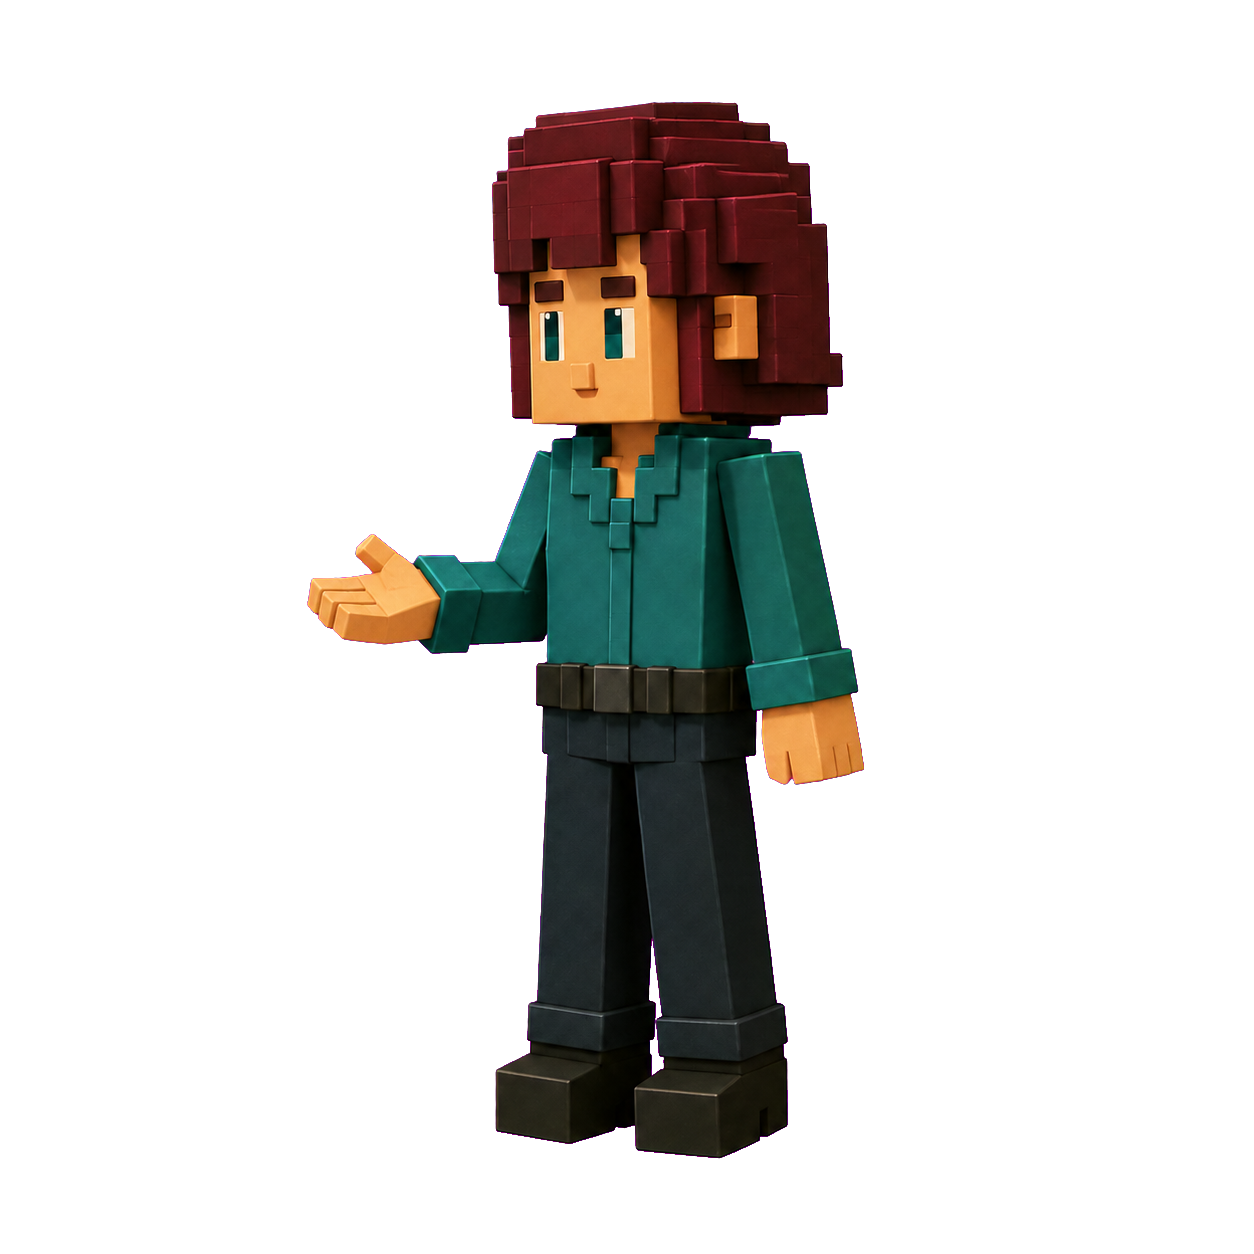
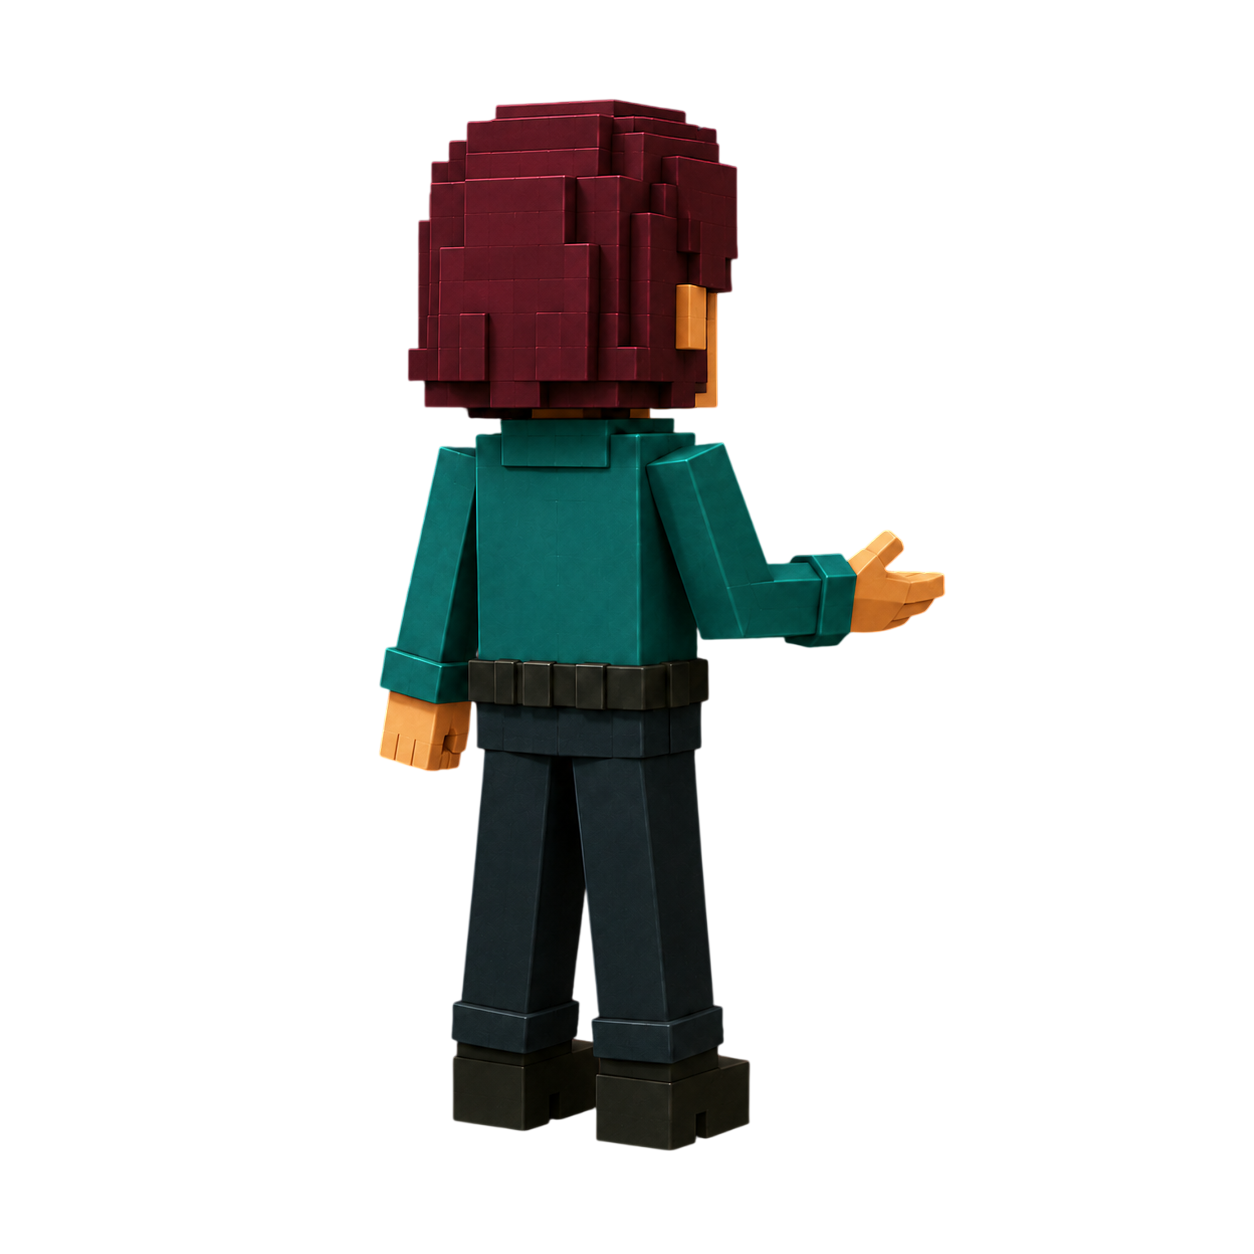
FE-feat : 에이전트 캐릭터 크기 조정 및 목적지 좌표 50군데 고정 완료

Changed region(s): [[0.2488, 0.0622, 0.7464, 0.933]]

diff --git a/frontend/src/pages/AgentStatusPage.tsx b/frontend/src/pages/AgentStatusPage.tsx
@@ -30,64 +30,75 @@ const AGENT_CONFIGS: AgentConfig[] = [
     id: 'agent01',
     name: 'Agent 01',
     spritePath: '/assets/agents/agent01',
+    stateScales: { sitting_meeting: 0.85, sitting_calling: 0.85, sitting_floor_lean: 0.85 },
     initialPosition: { x: 1500, y: 667 },
     destinations: {
-      desk: { x: 470, y: 430 },
-      sofa: { x: 1157, y: 257 },
-      floorLean: { x: 1440, y: 260 },
-      meeting: { x: 904, y: 95 },
-      calling: { x: 1111, y: 658 },
+      desk: { x: 470, y: 395 },
+      sofa: { x: 1185, y: 205 },
+      floorLean: { x: 1545, y: 285 },
+      meeting: { x: 415, y: 130 },
+      calling: { x: 1110, y: 660 },
     },
   },
   {
     id: 'agent02',
     name: 'Agent 02',
     spritePath: '/assets/agents/agent02',
+    stateScales: { sitting_meeting: 0.85, sitting_floor_lean: 0.85, sitting_calling: 0.85 },
     initialPosition: { x: 1560, y: 720 },
     destinations: {
-      desk: { x: 630, y: 440 },
-      sofa: { x: 1200, y: 290 },
-      floorLean: { x: 1390, y: 300 },
-      meeting: { x: 950, y: 130 },
-      calling: { x: 1111, y: 658 },
+      desk: { x: 650, y: 458 },
+      sofa: { x: 1185, y: 205 },
+      floorLean: { x: 1070, y: 285 },
+      meeting: { x: 925, y: 90 },
+      calling: { x: 840, y: 350 },
     },
   },
   {
     id: 'agent03',
     name: 'Agent 03',
     spritePath: '/assets/agents/agent03',
+    scale: 0.85,
     initialPosition: { x: 1450, y: 720 },
     destinations: {
-      desk: { x: 494, y: 450 },
-      sofa: { x: 1110, y: 290 },
-      floorLean: { x: 1390, y: 260 },
-      meeting: { x: 860, y: 130 },
-      calling: { x: 1111, y: 658 },
+      desk: { x: 470, y: 395 },
+      sofa: { x: 1185, y: 205 },
+      floorLean: { x: 1215, y: 370 },
+      meeting: { x: 715, y: 215 },
+      calling: { x: 990, y: 750 },
     },
   },
   {
     id: 'agent04',
     name: 'Agent 04',
     spritePath: '/assets/agents/agent04',
+    scale: 0.87,
+    stateScales: { sitting_desk: 1.1, sitting_floor_lean: 0.85 },
     initialPosition: { x: 1500, y: 770 },
     destinations: {
-      desk: { x: 550, y: 405 },
-      sofa: { x: 1195, y: 220 },
-      floorLean: { x: 1440, y: 310 },
-      meeting: { x: 950, y: 95 },
-      calling: { x: 1111, y: 658 },
+      desk: { x: 465, y: 595 },
+      sofa: { x: 1185, y: 205 },
+      floorLean: { x: 1415, y: 360 },
+      meeting: { x: 920, y: 220 },
+      calling: { x: 1110, y: 655 },
     },
   },
   {
     id: 'agent05',
     name: 'Agent 05',
     spritePath: '/assets/agents/agent05',
+    stateScales: {
+      sitting_desk: 0.92,
+      sitting_meeting: 0.85,
+      sitting_floor_lean: 0.8,
+      sitting_calling: 0.9,
+    },
     initialPosition: { x: 1560, y: 770 },
     destinations: {
-      desk: { x: 550, y: 450 },
-      sofa: { x: 1110, y: 310 },
-      floorLean: { x: 1340, y: 300 },
-      meeting: { x: 860, y: 95 },
+      desk: { x: 825, y: 520 },
+      sofa: { x: 1185, y: 205 },
+      floorLean: { x: 1535, y: 425 },
+      meeting: { x: 415, y: 130 },
       calling: { x: 1334, y: 665 },
     },
   },
@@ -95,12 +106,18 @@ const AGENT_CONFIGS: AgentConfig[] = [
     id: 'agent06',
     name: 'Agent 06',
     spritePath: '/assets/agents/agent06',
+    stateScales: {
+      sitting_floor_lean: 0.85,
+      sitting_meeting: 0.85,
+      sitting_calling: 0.85,
+      sitting_sofa: 0.85,
+    },
     initialPosition: { x: 1380, y: 667 },
     destinations: {
-      desk: { x: 680, y: 430 },
-      sofa: { x: 1070, y: 250 },
+      desk: { x: 825, y: 520 },
+      sofa: { x: 1140, y: 230 },
       floorLean: { x: 1290, y: 260 },
-      meeting: { x: 820, y: 95 },
+      meeting: { x: 925, y: 90 },
       calling: { x: 1070, y: 658 },
     },
   },
@@ -108,13 +125,19 @@ const AGENT_CONFIGS: AgentConfig[] = [
     id: 'agent07',
     name: 'Agent 07',
     spritePath: '/assets/agents/agent07',
+    stateScales: {
+      sitting_meeting: 0.8,
+      sitting_sofa: 0.85,
+      sitting_floor_lean: 0.85,
+      sitting_calling: 0.85,
+    },
     initialPosition: { x: 140, y: 750 },
     destinations: {
-      desk: { x: 720, y: 440 },
-      sofa: { x: 1080, y: 270 },
+      desk: { x: 465, y: 595 },
+      sofa: { x: 1140, y: 230 },
       floorLean: { x: 1340, y: 280 },
-      meeting: { x: 850, y: 110 },
-      calling: { x: 1110, y: 680 },
+      meeting: { x: 850, y: 65 },
+      calling: { x: 1430, y: 840 },
     },
   },
   {
@@ -122,25 +145,28 @@ const AGENT_CONFIGS: AgentConfig[] = [
     name: 'Agent 08',
     spritePath: '/assets/agents/agent08',
     scale: 0.85,
+    stateScales: { sitting_sofa: 1.1, sitting_desk: 0.95, sitting_calling: 1.1 },
     initialPosition: { x: 80, y: 820 },
     destinations: {
-      desk: { x: 652, y: 480 },
-      sofa: { x: 1090, y: 245 },
-      floorLean: { x: 1390, y: 300 },
-      meeting: { x: 870, y: 115 },
-      calling: { x: 1150, y: 658 },
+      desk: { x: 650, y: 458 },
+      sofa: { x: 1140, y: 230 },
+      floorLean: { x: 995, y: 340 },
+      meeting: { x: 670, y: 105 },
+      calling: { x: 240, y: 710 },
     },
   },
   {
     id: 'agent09',
     name: 'Agent 09',
     spritePath: '/assets/agents/agent09',
+    scale: 0.85,
+    stateScales: { sitting_desk: 1.1 },
     initialPosition: { x: 1380, y: 770 },
     destinations: {
-      desk: { x: 800, y: 440 },
-      sofa: { x: 1100, y: 260 },
-      floorLean: { x: 1440, y: 270 },
-      meeting: { x: 890, y: 100 },
+      desk: { x: 650, y: 685 },
+      sofa: { x: 1140, y: 230 },
+      floorLean: { x: 1380, y: 490 },
+      meeting: { x: 785, y: 245 },
       calling: { x: 1200, y: 658 },
     },
   },
@@ -148,13 +174,14 @@ const AGENT_CONFIGS: AgentConfig[] = [
     id: 'agent10',
     name: 'Agent 10',
     spritePath: '/assets/agents/agent10',
+    scale: 0.85,
     initialPosition: { x: 200, y: 820 },
     destinations: {
-      desk: { x: 840, y: 430 },
-      sofa: { x: 1120, y: 280 },
-      floorLean: { x: 1490, y: 285 },
-      meeting: { x: 910, y: 120 },
-      calling: { x: 1250, y: 658 },
+      desk: { x: 650, y: 685 },
+      sofa: { x: 1140, y: 230 },
+      floorLean: { x: 1310, y: 460 },
+      meeting: { x: 920, y: 220 },
+      calling: { x: 1250, y: 660 },
     },
   },
 ]
@@ -194,25 +221,55 @@ function calcDuration(from: { x: number; y: number }, to: { x: number; y: number
 }
 
 function initAgents(): AgentRuntime[] {
-  return AGENT_CONFIGS.map((config) => {
-    const isFixed = !CONTROLLABLE_AGENTS.has(config.id)
-    const fixedDest = AGENT_FIXED_DEST[config.id]
-    return {
-      config,
-      position: isFixed ? { ...config.destinations[fixedDest] } : { ...config.initialPosition },
-      state: isFixed ? DESTINATION_MAP[fixedDest].targetState : ('idle' as const),
-      targetState: 'sitting_desk' as const,
-      walkFrame: 0 as const,
-      transitionDuration: 3,
-    }
-  })
+  return AGENT_CONFIGS.map((config) => ({
+    config,
+    position: { ...config.initialPosition },
+    state: 'idle' as const,
+    targetState: 'sitting_desk' as const,
+    walkFrame: 0 as const,
+    transitionDuration: 3,
+  }))
 }
+
+const DESTINATIONS: Destination[] = ['desk', 'sofa', 'floorLean', 'meeting', 'calling']
 
 export function AgentStatusPage() {
   const [agents, setAgents] = useState<AgentRuntime[]>(initAgents)
-  const [selectedId, setSelectedId] = useState<string>('agent01')
+  const [selectedId, setSelectedId] = useState<string>(
+    () => localStorage.getItem('debug_selectedId') ?? 'agent01',
+  )
   const [ceoMode, setCeoMode] = useState<'desk' | 'explain'>('desk')
+  const [debugDestMap, setDebugDestMap] = useState<Record<string, Destination>>(() =>
+    JSON.parse(localStorage.getItem('debug_destMap') ?? '{}'),
+  )
+  const [panelTop, setPanelTop] = useState(false)
   const walkTimersRef = useRef<Record<string, ReturnType<typeof setTimeout> | undefined>>({})
+
+  const setSelectedIdPersist = (id: string) => {
+    localStorage.setItem('debug_selectedId', id)
+    setSelectedId(id)
+  }
+
+  const setDebugDestPersist = (agentId: string, dest: Destination | null) => {
+    setDebugDestMap((prev) => {
+      const next = { ...prev }
+      if (dest === null) delete next[agentId]
+      else next[agentId] = dest
+      localStorage.setItem('debug_destMap', JSON.stringify(next))
+      return next
+    })
+  }
+
+  const displayAgents = agents.map((a) => {
+    const dest = debugDestMap[a.config.id]
+    if (!dest) return a
+    return {
+      ...a,
+      position: a.config.destinations[dest],
+      state: DESTINATION_MAP[dest].targetState,
+      transitionDuration: 0,
+    }
+  })
 
   const clearWalkTimer = (agentId: string) => {
     const timer = walkTimersRef.current[agentId]
@@ -284,30 +341,60 @@ export function AgentStatusPage() {
 
   return (
     <div className="relative flex flex-1 overflow-hidden">
-      <OfficeMap agents={agents} onAgentArrived={handleAgentArrived} ceoMode={ceoMode} />
+      <OfficeMap agents={displayAgents} onAgentArrived={handleAgentArrived} ceoMode={ceoMode} />
 
-      <div className="absolute bottom-6 left-1/2 z-20 -translate-x-1/2">
+      {/* 좌표 디버그 패널 */}
+      <div className="absolute top-4 right-4 z-20">
+        <div className="flex flex-col gap-2 rounded-2xl border border-white/20 bg-black/60 px-4 py-3 shadow-2xl backdrop-blur-md">
+          <span className="text-xs font-bold text-white/50">목적지 미리보기</span>
+          <div className="flex gap-1.5">
+            {DESTINATIONS.map((dest) => (
+              <button
+                key={dest}
+                onClick={() =>
+                  setDebugDestPersist(selectedId, debugDestMap[selectedId] === dest ? null : dest)
+                }
+                className={`rounded-lg px-3 py-1.5 text-xs font-semibold transition-colors ${
+                  debugDestMap[selectedId] === dest
+                    ? 'bg-yellow-400 text-gray-900'
+                    : 'bg-white/10 text-white/60 hover:bg-white/20 hover:text-white'
+                }`}
+              >
+                {DESTINATION_MAP[dest].label}
+              </button>
+            ))}
+          </div>
+        </div>
+      </div>
+
+      <div className={`absolute left-1/2 z-20 -translate-x-1/2 ${panelTop ? 'top-4' : 'bottom-6'}`}>
         <div className="flex flex-col gap-2.5 rounded-2xl border border-white/20 bg-black/60 px-5 py-3 shadow-2xl backdrop-blur-md">
           {/* 에이전트 탭 */}
           <div className="flex items-center gap-1.5">
-            {agents
-              .filter((agent) => CONTROLLABLE_AGENTS.has(agent.config.id))
-              .map((agent) => (
-                <button
-                  key={agent.config.id}
-                  onClick={() => setSelectedId(agent.config.id)}
-                  className={`relative rounded-lg px-3 py-1 text-xs font-bold transition-colors ${
-                    selectedId === agent.config.id
-                      ? 'bg-white text-gray-900'
-                      : 'bg-white/10 text-white/60 hover:bg-white/20 hover:text-white'
-                  }`}
-                >
-                  {agent.config.id.replace('agent', '')}
-                  <span
-                    className={`absolute -top-0.5 -right-0.5 h-2 w-2 rounded-full border border-black/50 ${stateColor(agent.state)} ${agent.state === 'walking' ? 'animate-pulse' : ''}`}
-                  />
-                </button>
-              ))}
+            {agents.map((agent) => (
+              <button
+                key={agent.config.id}
+                onClick={() => setSelectedIdPersist(agent.config.id)}
+                className={`relative rounded-lg px-3 py-1 text-xs font-bold transition-colors ${
+                  selectedId === agent.config.id
+                    ? 'bg-white text-gray-900'
+                    : 'bg-white/10 text-white/60 hover:bg-white/20 hover:text-white'
+                }`}
+              >
+                {agent.config.id.replace('agent', '')}
+                <span
+                  className={`absolute -top-0.5 -right-0.5 h-2 w-2 rounded-full border border-black/50 ${stateColor(agent.state)} ${agent.state === 'walking' ? 'animate-pulse' : ''}`}
+                />
+              </button>
+            ))}
+            <div className="mx-0.5 h-4 w-px bg-white/20" />
+            <button
+              onClick={() => setPanelTop((prev) => !prev)}
+              className="rounded-lg bg-white/10 px-2 py-1 text-xs text-white/60 transition-colors hover:bg-white/20 hover:text-white"
+              title="패널 위치 이동"
+            >
+              {panelTop ? '▼' : '▲'}
+            </button>
             <div className="mx-0.5 h-4 w-px bg-white/20" />
             <button
               onClick={() => setCeoMode((prev) => (prev === 'desk' ? 'explain' : 'desk'))}

diff --git a/frontend/src/components/office/AgentSprite.tsx b/frontend/src/components/office/AgentSprite.tsx
@@ -27,7 +27,7 @@ interface AgentSpriteProps {
 
 export function AgentSprite({ agent, onArrived }: AgentSpriteProps) {
   const { config, position, state, transitionDuration } = agent
-  const scale = config.scale ?? 1
+  const scale = (config.scale ?? 1) * (config.stateScales?.[state] ?? 1)
   const size = (state === 'sitting_desk' ? SIZE_SITTING : SIZE_NORMAL) * scale
 
   return (

diff --git a/frontend/src/components/office/types.ts b/frontend/src/components/office/types.ts
@@ -18,6 +18,7 @@ export interface AgentConfig {
   initialPosition: { x: number; y: number }
   destinations: Record<Destination, { x: number; y: number }>
   scale?: number
+  stateScales?: Partial<Record<AgentState, number>>
 }
 
 export interface AgentRuntime {
